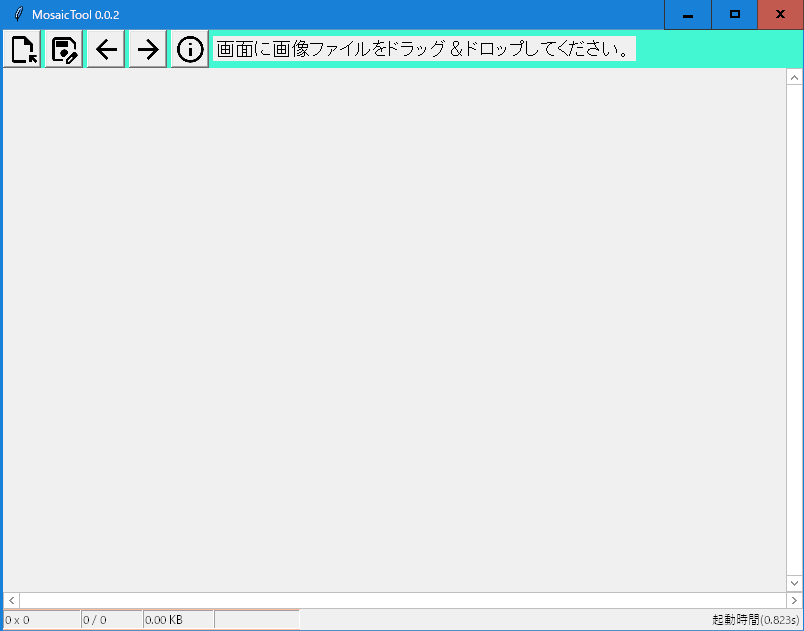
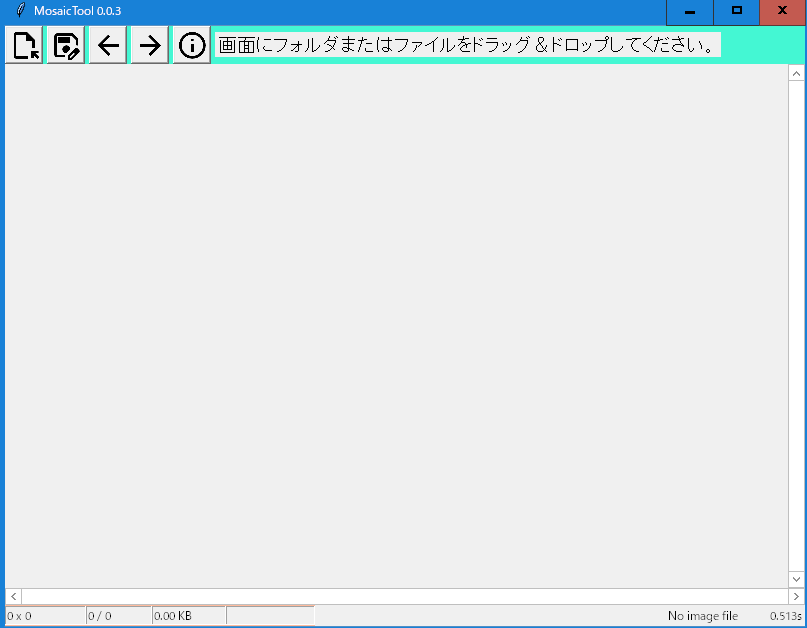
launch.jsonにPyInstallerを追加しました。

Changed region(s): [[0.0, 0.0, 1.0, 1.0]]

diff --git a/src/controllers.py b/src/controllers.py
@@ -26,6 +26,7 @@ class AppController:
         """
         ファイルをデータモデルに追加します。
         パスがディレクトリの場合は、ディレクトリ内のファイルも追加します。
+        :param file_path: 画像ファイルのパス
         :return: 追加件数
         """
         if not file_path.is_dir():  # ファイルの場合
@@ -38,12 +39,13 @@ class AppController:
 
     def handle_drop(self, event):
         """
-        ドロップイベント
+        ドロップ完了時に発生する。
+        :param event: ドロップイベント
         """
         sw = Stopwatch.start_new()
 
         count: int = 0
-        event_data = event.data  # ドラッグ&ドラッグで渡されたファイル名
+        event_data = event.data  # ドラッグ&ドロップで渡されたファイル名
         if not event_data:
             self.view.status_message("No data received in drop event")
             self.display_process_time(f"{sw.elapsed:.3f}s")
@@ -70,32 +72,43 @@ class AppController:
     def handle_file_open(self, event=None):
         """
         ファイル選択ボタンクリック時
+        :param event: イベント
         """
         self.view.on_select_files(None)
 
     def handle_save_as(self, event=None):
         """
         ファイルを選択して保存ボタンをクリック時
+        :param event: イベント
         """
         self.view.on_save_as(None)
 
     def handle_back_image(self, event=None):
         """
         前の画像に遷移するをクリック時
+        :param event: イベント
         """
+        sw = Stopwatch.start_new()
         self.model.prev_index()
         self.display_image()
+
+        self.display_process_time(f"{sw.elapsed:.3f}s")
 
     def handle_forward_image(self, event=None):
         """
         次の画像に遷移するをクリック時
+        :param event: イベント
         """
+        sw = Stopwatch.start_new()
         self.model.next_index()
         self.display_image()
+
+        self.display_process_time(f"{sw.elapsed:.3f}s")
 
     def handle_info_image(self, event=None):
         """
         画像情報を表示するをクリック時
+        :param event: イベント
         """
         file = self.model.get_current_file()
         d = ImageFileService.get_image_info(file)
@@ -111,6 +124,7 @@ class AppController:
     def handle_select_files_complete(self, files: Iterable[str]):
         """
         ファイル選択ダイアログよりファイル選択時
+        :param files: ファイル一覧
         """
         count: int = 0
         total: int = 0
@@ -136,12 +150,14 @@ class AppController:
     def set_window_title(self, text: Path):
         """
         タイトルバーの設定
+        :param text: ファイルパス
         """
         self.window_title_callback(text)
 
     def display_process_time(self, time) -> None:
         """
         処理時間の設定
+        :param text: 処理時間
         """
         self.view.status_process_time(time)
 

diff --git a/src/widgets.py b/src/widgets.py
@@ -322,7 +322,7 @@ class MainPage(tk.Frame):
         """
         self.MainFrame.updateImage(path)
         self.controller.set_window_title(path)
-        self.updateFileStatus()
+        self.displayFileStatus()
 
     def on_select_files(self, event):
         """
@@ -377,7 +377,7 @@ class MainPage(tk.Frame):
         self.status_message(f"Save。{save_file.name}", f"{sw.elapsed:.3f}")
         messagebox.showinfo(PROGRAM_NAME, f"ファイルを保存しました。\n\n{save_file}")
 
-    def updateFileStatus(self):
+    def displayFileStatus(self):
         """
         フッターのステータスバーを更新
         """

diff --git a/app.py b/app.py
@@ -85,7 +85,7 @@ class MyApp(TkinterDnD.Tk):
         """
         # コマンドライン引数で渡されたファイルパスを処理する
         self.controller.handle_select_files_complete(files)
-        self.MainPage.updateFileStatus()
+        self.MainPage.displayFileStatus()
         self.controller.display_process_time(f"{sw.elapsed:.3f}s")
 
 

diff --git a/scripts/build.py b/scripts/build.py
@@ -1,0 +1,15 @@
+# -*- coding: utf-8 -*-
+"""
+    build
+"""
+import subprocess
+import sys
+
+
+def main():
+    args = sys.argv[1:]
+    subprocess.run([sys.executable] + args, check=True)
+
+
+if __name__ == '__main__':
+    main()
